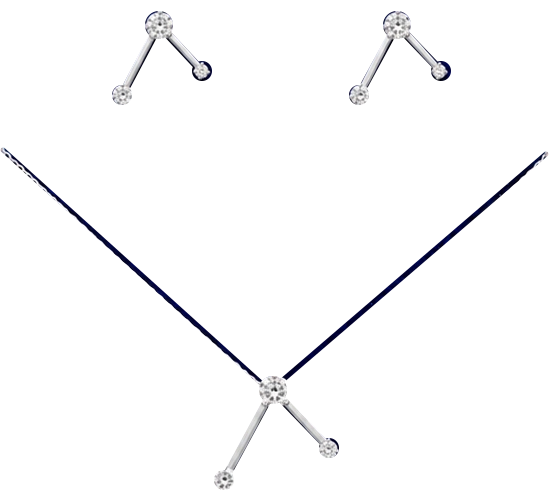
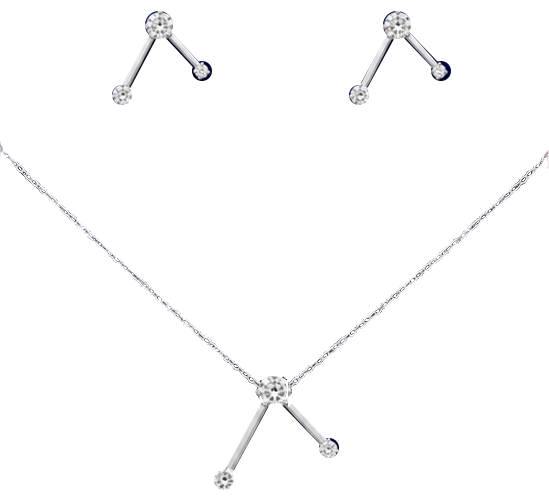
Restore fine detail in three archive tray photos

diff --git a/lib/constants/gallery-tray-masks.ts b/lib/constants/gallery-tray-masks.ts
@@ -49,10 +49,10 @@ const masks: Record<string, TrayMask> = {
     src: "/images/ornova/gallery/final-renders/08-3f570c5c.webp",
     viewBox: "288 213 257 515",
     fills: [
-      "M348 222 Q360 222 360 240 L360 276 Q370 285 371 295 Q369 310 359 315 L360 340 L339 340 L338 312 Q327 306 327 293 Q327 281 338 275 L339 238 Q339 225 348 222Z M338 286 Q334 293 340 302 L354 305 Q365 300 363 290 L360 286 Q357 303 348 301 Q341 300 338 286Z",
-      "M337 337 Q348 333 359 337 L360 512 L337 513Z",
-      "M357 334 Q457 355 513 451 Q563 535 509 622 Q473 688 398 711 Q346 730 314 701 Q282 672 305 618 Q321 578 361 562 Q381 553 400 566 Q421 576 415 597 L398 596 Q392 578 377 579 Q342 578 326 612 Q306 656 323 681 Q342 709 391 691 Q463 665 494 610 Q540 534 495 459 Q447 379 355 355Z",
-      "M375 557 Q393 560 399 577 Q418 575 420 591 Q417 604 408 611 Q423 622 412 638 Q402 646 390 641 Q385 662 374 663 Q359 655 354 641 Q337 648 330 632 Q325 620 340 608 Q327 596 332 582 Q339 574 355 580 Q357 565 375 557Z",
+      "M348 221 C357 221 360 229 360 240 L360 275 C374 283 374 303 361 311 L357 311 L357 301 C366 296 365 289 360 284 L360 289 C358 303 344 304 341 291 L341 284 C334 288 334 298 345 302 L344 313 C331 312 325 299 328 289 C330 283 334 279 341 275 L341 234 C341 226 343 222 348 221 Z",
+      "M342 307 C345 302 353 302 357 307 L358 336 C366 340 367 348 364 355 Q362 361 357 364 L362 366 L363 500 Q353 503 340 501 L338 367 L344 364 Q332 360 335 347 Q337 340 341 338 Z",
+      "M358 335 C476 361 528 443 535 533 C544 609 501 678 445 703 C410 719 367 729 335 705 C304 684 293 652 300 618 C308 588 332 564 360 559 C382 553 395 563 409 584 L397 596 C381 585 382 571 368 575 C345 578 330 590 322 605 C307 634 317 663 335 679 C357 704 397 697 434 682 C484 659 508 614 514 571 C527 477 477 381 357 353 Z",
+      "M375 558 C385 560 391 569 395 579 C405 580 417 582 419 587 C419 598 416 605 408 611 C416 616 420 626 417 635 C407 645 396 646 389 642 C388 650 381 658 374 662 C366 659 361 649 359 641 C349 646 338 643 333 635 C330 629 332 619 340 612 C332 605 328 595 333 586 C341 580 351 580 360 582 C362 567 369 561 375 558 Z",
     ],
   },
   "19": {
@@ -65,7 +65,7 @@ const masks: Record<string, TrayMask> = {
     viewBox: "65 255 549 502",
     fills: [],
     strokes: [
-      { d: "M68 405 L335 646 L611 409", width: 5 },
+      { d: "M66 406 L324 644 M351 642 L613 414", width: 13 },
       { d: "M187 350 L224 280 L267 326 M424 350 L462 280 L506 326 M289 735 L338 645 L394 703", width: 8 },
       { d: "M224 280h.01 M462 280h.01 M338 645h.01", width: 28 },
       { d: "M187 350h.01 M267 326h.01 M424 350h.01 M506 326h.01 M289 735h.01 M394 703h.01", width: 20 },
